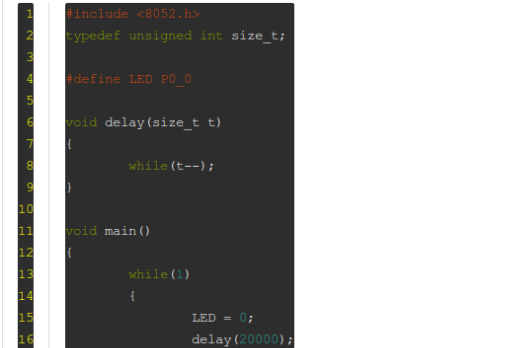
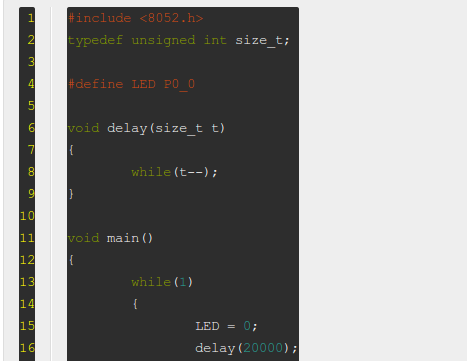
Site updated: 2014-02-10 20:46:40

diff --git a/css/style.css b/css/style.css
@@ -745,7 +745,7 @@ article footer .addthis iframe {
   color: #258fb8;
 }
 figure.highlight {
-  background: #2d2d2d;
+  background: #eee;
   border: 1px solid #ddd;
   margin-top: 15px;
   padding: 7px 15px;
